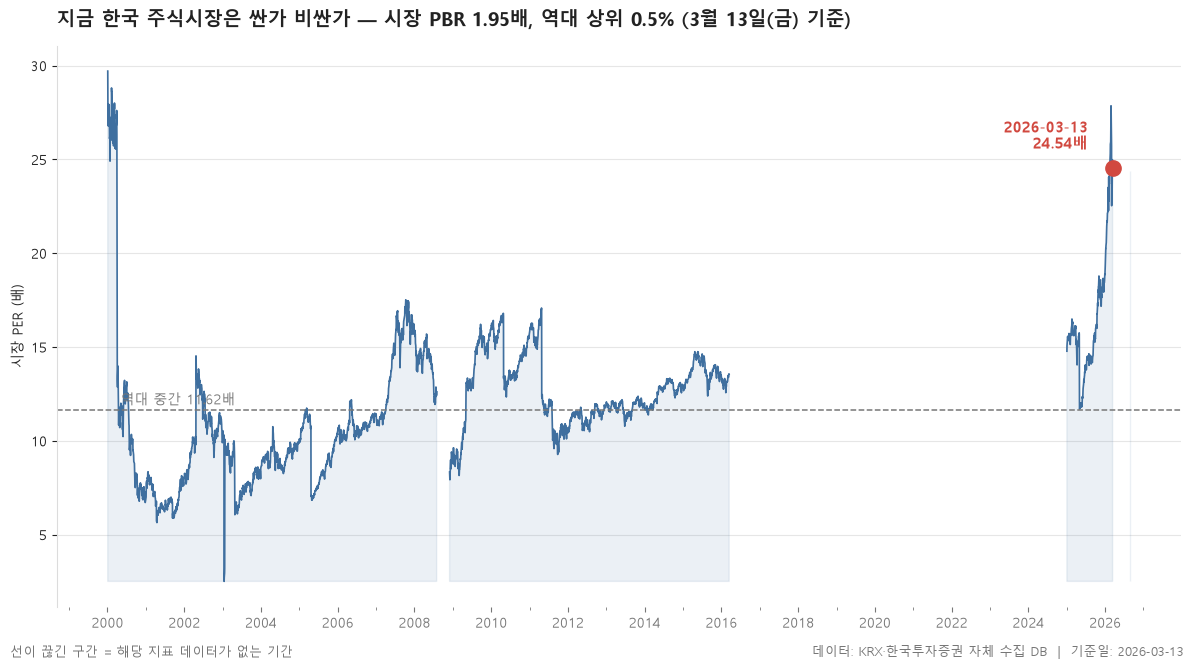
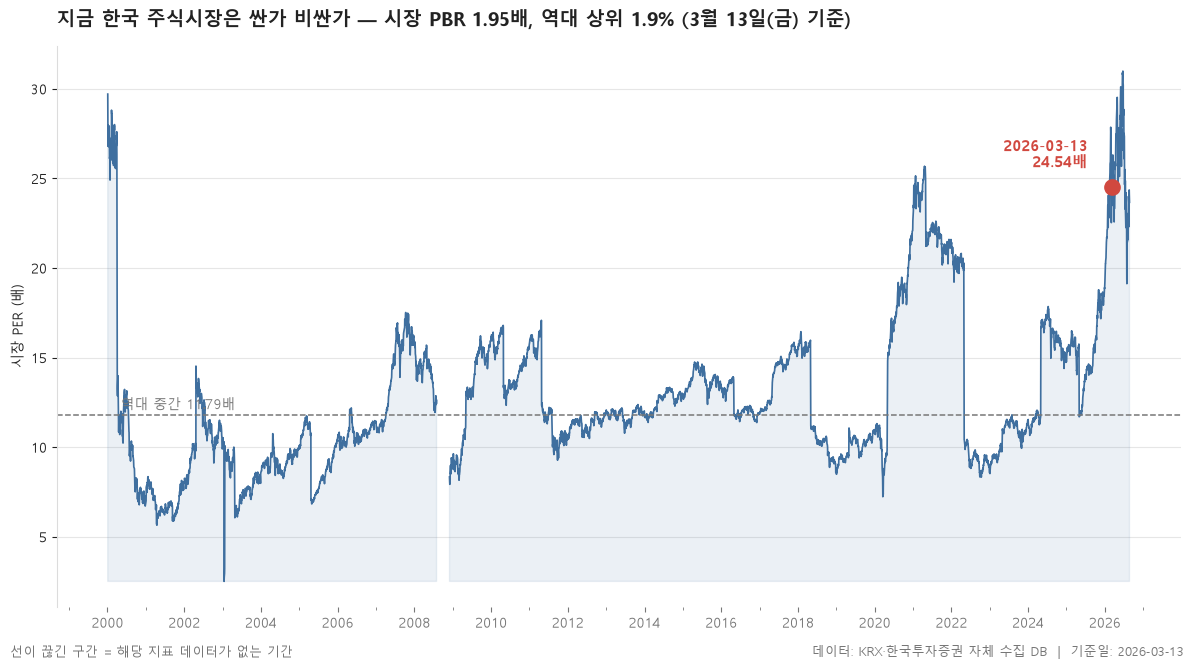
캐시 버그로 잘못 계산된 통계 정정 (2편)
블로그 파생 집계 캐시가 MAX(date) 고수위 마크로 재개 지점을 잡는 바람에
백필이 나중에 채운 과거 구간이 모집단에서 통째로 빠져 있었습니다.
그 상태로 계산된 '역대 백분위' 가 그대로 발행됐습니다.

- 시장 밸류에이션: 역대 상위 0.5% → 1.9% (모집단 3,643 → 5,914 거래일)
- 월별 계절성: 3월 승률 54.5% → 48.4% 등 월별 통계 전반

수집 파이프라인 쪽 원인은 이미 수정했고(집합 차집합으로 변경), 이 커밋은
그 수정 이후 다시 계산한 값을 반영합니다.

diff --git a/content/posts/2026-03-13-monthly-seasonality/index.md b/content/posts/2026-03-13-monthly-seasonality/index.md
@@ -1,13 +1,13 @@
 ---
-title: "1995년 이후 월별 주식 수익률 통계 — 3월은 승률 54.5%"
+title: "1995년 이후 월별 주식 수익률 통계 — 3월은 승률 48.4%"
 date: 2026-03-13T16:10:00+09:00
-lastmod: 2026-08-24T15:48:42+09:00
-description: "1995-06 ~ 2026-02 기간 263개월의 기록입니다. 역사적으로 가장 강한 달은 4월(중위 1.69%), 가장 약한 달은 8월(중위 -2.87%)입니다. 3월은 중위 1.29%, 승률 54.5%."
+lastmod: 2026-08-25T13:33:20+09:00
+description: "1995-06 ~ 2026-08 기간 375개월의 기록입니다. 역사적으로 가장 강한 달은 4월(중위 1.69%), 가장 약한 달은 8월(중위 -2.29%)입니다. 3월은 중위 0.0%, 승률 48.4%."
 categories: ["월별 계절성"]
 draft: false
 sourcePack: "blog/output/2026-03-13/2026-03-13-monthly-seasonality/pack.json"
 ---
-1995-06 ~ 2026-02 기간 263개월의 기록입니다. 역사적으로 가장 강한 달은 4월(중위 1.69%), 가장 약한 달은 8월(중위 -2.87%)입니다. 3월은 중위 1.29%, 승률 54.5%.
+1995-06 ~ 2026-08 기간 375개월의 기록입니다. 역사적으로 가장 강한 달은 4월(중위 1.69%), 가장 약한 달은 8월(중위 -2.29%)입니다. 3월은 중위 0.0%, 승률 48.4%.
 
 > 기준일: 2026-03-13 · 집계: 자체 수집 데이터베이스
 
@@ -16,33 +16,33 @@ sourcePack: "blog/output/2026-03-13/2026-03-13-monthly-seasonality/pack.json"
 ## 핵심 내용
 
 - 중위 수익률이 가장 높은 항목은 4월(1.69%)입니다.
-- 중위 수익률이 가장 낮은 항목은 8월(-2.87%)입니다.
-- 표에 포함된 항목의 중위 수익률 중위값은 -0.78%입니다.
-- 표 12개 항목 중 5개가 양(+), 7개가 음(-)입니다.
+- 중위 수익률이 가장 낮은 항목은 8월(-2.29%)입니다.
+- 표에 포함된 항목의 중위 수익률 중위값은 -1.18%입니다.
+- 표 12개 항목 중 3개가 양(+), 8개가 음(-)입니다.
 
 ## 전체 표
 
 | 월 | 관측연수 | 중위수익률 | 평균수익률 | 상승한해 | 승률 | 최고 | 최저 |
 |---|---|---|---|---|---|---|---|
-| 1월 | 22 | 1.14 | 2.21 | 12 | 54.50 | 27.93 | -11.04 |
-| 2월 | 23 | 0.96 | 0.63 | 13 | 56.50 | 11.63 | -9.77 |
-| 3월 | 22 | 1.29 | 0.52 | 12 | 54.50 | 12.03 | -10.36 |
-| 4월 | 21 | 1.69 | 1.28 | 15 | 71.40 | 19.17 | -20.30 |
-| 5월 | 21 | -0.54 | -2.21 | 7 | 33.30 | 10.45 | -18.98 |
-| 6월 | 22 | -1.66 | -2.11 | 9 | 40.90 | 6.24 | -11.71 |
-| 7월 | 22 | 0.04 | 0.22 | 11 | 50 | 9.46 | -12.71 |
-| 8월 | 22 | -2.87 | -2.67 | 6 | 27.30 | 4.68 | -10.96 |
-| 9월 | 22 | -1.01 | -2.43 | 9 | 40.90 | 12.85 | -15 |
-| 10월 | 22 | -1.40 | -2.73 | 7 | 31.80 | 14.74 | -31.63 |
-| 11월 | 22 | -2.01 | -0.66 | 7 | 31.80 | 14.29 | -12.90 |
-| 12월 | 22 | -1.06 | -3.19 | 5 | 22.70 | 15.87 | -25.54 |
+| 1월 | 31 | 0.87 | 1.66 | 16 | 51.60 | 27.93 | -11.04 |
+| 2월 | 31 | 0.23 | 0.09 | 17 | 54.80 | 11.63 | -9.77 |
+| 3월 | 31 | 0 | -0.33 | 15 | 48.40 | 12.03 | -16.96 |
+| 4월 | 31 | 1.69 | 1.90 | 22 | 71 | 19.17 | -20.30 |
+| 5월 | 31 | -1.30 | -2.25 | 11 | 35.50 | 10.45 | -18.98 |
+| 6월 | 32 | -1.88 | -2.91 | 11 | 34.40 | 6.24 | -17.76 |
+| 7월 | 32 | -1.66 | -0.55 | 14 | 43.80 | 9.46 | -12.71 |
+| 8월 | 32 | -2.29 | -2.20 | 8 | 25 | 5.43 | -10.96 |
+| 9월 | 31 | -1.05 | -2.80 | 12 | 38.70 | 12.85 | -17.70 |
+| 10월 | 31 | -1.71 | -3.33 | 9 | 29 | 14.74 | -31.63 |
+| 11월 | 31 | -1.70 | -0.17 | 12 | 38.70 | 14.29 | -12.90 |
+| 12월 | 31 | -0.73 | -2.23 | 10 | 32.30 | 15.87 | -25.54 |
 
 ## 집계 기준
 
 - **기준**: 매월 말 거래일 종가 기준, 전 종목 개별 수익률의 중위값
-- **관측구간**: 1995-06 ~ 2026-02 (유효 263개월)
+- **관측구간**: 1995-06 ~ 2026-08 (유효 375개월)
 - **모집단**: KOSPI·KOSDAQ 보통주
-- **표본제외**: 집계 종목이 300개 미만인 112개월은 제외 (전체 375개월 중)
+- **표본제외**: 집계 종목이 300개 미만인 0개월은 제외 (전체 375개월 중)
 - **이상치처리**: 월 수익률 절대값 100% 초과분은 액면분할·병합 등 왜곡 가능성으로 제외
 - **주의**: 종가는 수정주가 여부가 종목별로 다를 수 있어 개별 종목 수익률에는 오차가 있을 수 있습니다. 중위값을 쓰는 이유입니다.
 - **단위**: 수익률·승률=%

diff --git a/content/posts/2026-03-13-market-valuation/index.md b/content/posts/2026-03-13-market-valuation/index.md
@@ -1,13 +1,13 @@
 ---
-title: "지금 한국 주식시장은 싼가 비싼가 — 시장 PBR 1.95배, 역대 상위 0.5% (3월 13일(금) 기준)"
+title: "지금 한국 주식시장은 싼가 비싼가 — 시장 PBR 1.95배, 역대 상위 1.9% (3월 13일(금) 기준)"
 date: 2026-03-13T16:10:00+09:00
-lastmod: 2026-08-24T15:48:43+09:00
-description: "2002-04-23 이후 3,643거래일 기록과 비교하면 2026-03-13 시장 PBR 은 역대 상위 0.5% 수준으로 역사적으로 고평가 구간입니다."
+lastmod: 2026-08-25T13:33:20+09:00
+description: "2002-04-23 이후 5,914거래일 기록과 비교하면 2026-03-13 시장 PBR 은 역대 상위 1.9% 수준으로 역사적으로 고평가 구간입니다."
 categories: ["시장 밸류에이션 백분위"]
 draft: false
 sourcePack: "blog/output/2026-03-13/2026-03-13-market-valuation/pack.json"
 ---
-2002-04-23 이후 3,643거래일 기록과 비교하면 2026-03-13 시장 PBR 은 역대 상위 0.5% 수준으로 역사적으로 고평가 구간입니다.
+2002-04-23 이후 5,914거래일 기록과 비교하면 2026-03-13 시장 PBR 은 역대 상위 1.9% 수준으로 역사적으로 고평가 구간입니다.
 
 > 기준일: 2026-03-13 · 집계: 자체 수집 데이터베이스
 
@@ -17,22 +17,22 @@ sourcePack: "blog/output/2026-03-13/2026-03-13-market-valuation/pack.json"
 
 ## 핵심 내용
 
-- 시장 PER은 24.54배로 역대 상위 0.4% 수준입니다 (역대 중간값 11.88배).
-- 시장 PBR은 1.95배로 역대 상위 0.5% 수준입니다 (역대 중간값 1.26배).
-- 시장 배당수익률은 1.17%로 역대 하위 1.3% 수준입니다 (역대 중간값 1.55%).
+- 시장 PER은 24.54배로 역대 상위 2.0% 수준입니다 (역대 중간값 11.96배).
+- 시장 PBR은 1.95배로 역대 상위 1.9% 수준입니다 (역대 중간값 1.22배).
+- 시장 배당수익률은 1.17%로 역대 하위 2.3% 수준입니다 (역대 중간값 1.87%).
 
 ## 전체 표
 
 | 지표 | 현재값 | 백분위 | 하위1% | 역대중간 | 상위1% | 단위 |
 |---|---|---|---|---|---|---|
-| 시장 PER | 24.54 | 99.60 | 6.89 | 11.88 | 21.67 | 배 |
-| 시장 PBR | 1.95 | 99.50 | 0.87 | 1.26 | 1.89 | 배 |
-| 시장 배당수익률 | 1.17 | 1.30 | 1.17 | 1.55 | 3.04 | % |
+| 시장 PER | 24.54 | 98 | 7.07 | 11.96 | 25.92 | 배 |
+| 시장 PBR | 1.95 | 98.10 | 0.87 | 1.22 | 2.19 | 배 |
+| 시장 배당수익률 | 1.17 | 2.30 | 1.04 | 1.87 | 3.01 | % |
 
 ## 집계 기준
 
 - **기준**: 시가총액 가중 — 시장 PER = Σ시가총액 / Σ(시가총액÷PER)
-- **관측구간**: 2002-04-23 ~ 2026-08-21 (3,643거래일)
+- **관측구간**: 2002-04-23 ~ 2026-08-24 (5,914거래일)
 - **모집단**: KOSPI·KOSDAQ 보통주
 - **백분위해석**: 백분위 30 = 역대 기록 중 30% 만이 현재보다 낮았다는 뜻
 - **범위표시**: 절대 최소·최대는 하루치 오류 데이터에 흔들리므로 1~99 분위로 표시
